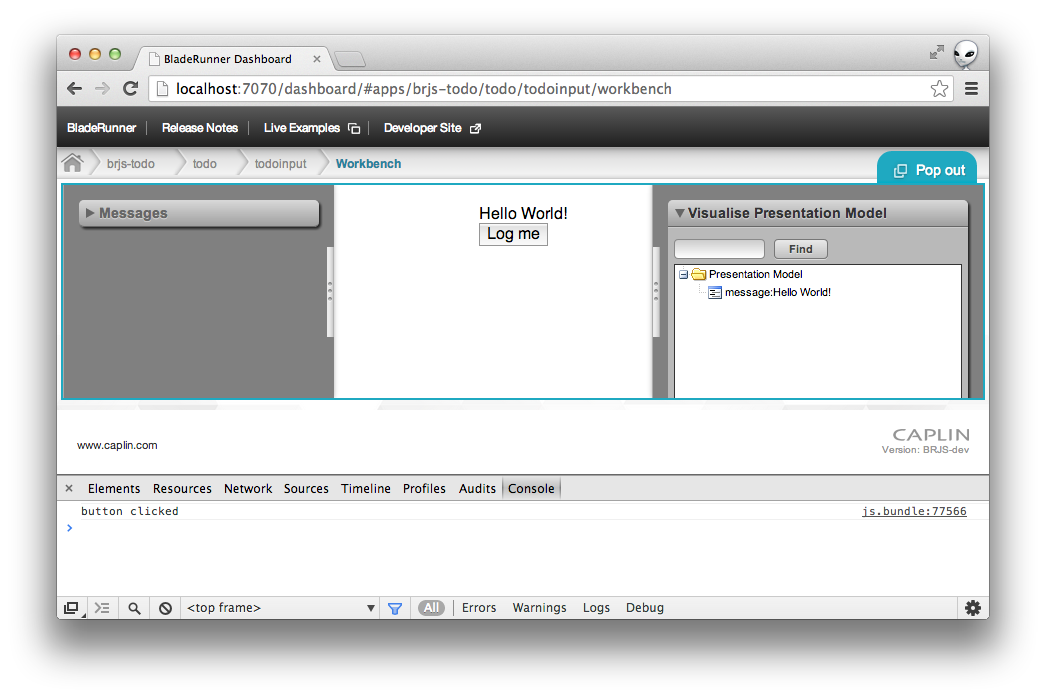
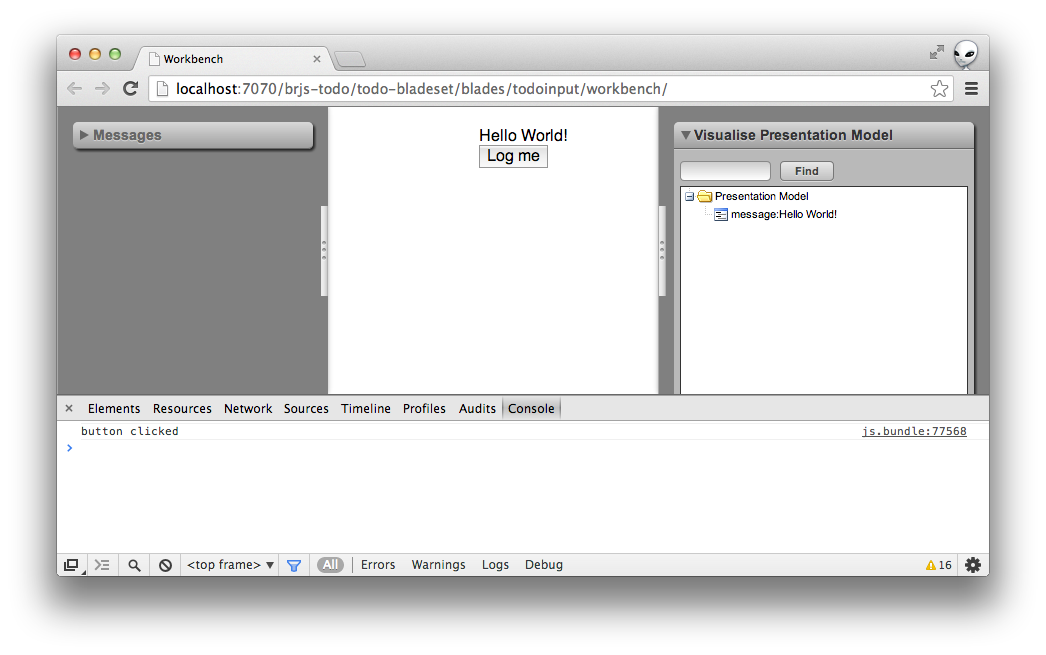
ongoing wip - more content

Changed region(s): [[0.0306, 0.0305, 0.9484, 0.7634], [0.0612, 0.8244, 0.9484, 0.8855]]

diff --git a/docs/use/getting_started.md b/docs/use/getting_started.md
@@ -8,6 +8,8 @@ permalink: /docs/use/getting_started/
 
 This isn't your typical 2 minute getting started guide - it probably takes around 10 minutes. This is because BRJS is meant to help you build large-scale applications, so we need to go into a bit of detail in order to cover things like developing using Workbenches, cross-blade communication using the EventHub and services.
 
+We'll follow convention to do this sort of thing - since following conventions are good - and we'll build a **Todo List**.
+
 It'll be 10 minutes well-spent.
 
 ## Prerequisites
@@ -60,7 +62,11 @@ This creates a folder called `todo-bladeset` within the application. For now we 
 
 Now we can create our first Blade and start developing.
 
-## Develop a Blade
+## The Todo Input Blade
+
+First, let's create a Blade for capturing the Todo items.
+
+### Scaffold the Blade
 
 Create a new blade using the CLI:
 
@@ -84,6 +90,8 @@ This creates a `todoinput` directory containing the following sub-directories:
 	</ul>
 </div>
 
+### View the Code
+
 Within `todoinput/src` you'll find an `ExampleClass.js` file:
 
     var br = require( 'br' );
@@ -92,7 +100,7 @@ Within `todoinput/src` you'll find an `ExampleClass.js` file:
     var PresentationModel = require( 'br/presenter/PresentationModel' );
     
     function ExampleClass() {
-      this.message = new Property("Hello World!" );
+      this.message = new Property( "Hello World!" );
     };
     br.extend(ExampleClass, PresentationModel);
     
@@ -100,30 +108,91 @@ Within `todoinput/src` you'll find an `ExampleClass.js` file:
       console.log( 'button clicked' );
     };
 
-Above, `ExampleClass` is a View Model which is bound to a view. You'll notice that `ExampleClass` extends `PresentationModel`. This deals with binding to the view. The view definition can be found in an HTML template in `resources/html/view.html`:
+<div class="alert alert-info">
+	<p>
+		We plan to <a href="https://github.com/BladeRunnerJS/brjs/issues/6">give auto-generated files better names</a>.
+	</p>
+</div>
+
+Above, `ExampleClass` is a View Model which is bound to a view. You'll notice that `ExampleClass` extends something called `PresentationModel`. This deals with binding data to the view. The view definition can be found in an HTML template in `resources/html/view.html`:
 
     <div id="brjstodo.todo.todoinput.view-template">
       <div class="hello-world-message" data-bind="text:message"></div>
       <button class="button" data-bind="click:buttonClicked">Log me</button>
     </div>
 
-Now that you've seen the View Model class and the view, let's launch a Workbench and see the Blade running.
+### Run the Blade in a Workbench
+
+Now that you've seen the View Model class and the view template, let's launch a Workbench and see the Blade running.
 
 Using the CLI run:
 
     unzip_location/sdk/brjs start
 
-This will start the development web server running on localhost port 7070. You can navigate to the workbench via http://localhost:7070 or go directly to it via http://localhost:7070/dashboard/#apps/brjs-todo/todo/todoinput/workbench.
+This will start the development web server running on localhost port 7070. You can navigate to the workbench via http://localhost:7070 or go directly to it via http://localhost:7070/brjs-todo/todo-bladeset/blades/todoinput/workbench/.
 
 ![](/docs/use/img/hello-world-workbench.png)
 
-**TODO: this should show the debug console logging rather than the "messages" log**
+You'll notice that there's a **Visualise Presentation Model** Workbench Tool that shows a tree visualisation of the View Model. In there you'll see a simple `message:Hello World!` name and value. 
 
-* Edit the Blade code and see the change in the workbench
-* Test the Blade
+### Add Two-Way Data Binding
 
-## Create a second Blade
+Next, let's edit the Blade to display in `input` element with a two-way binding between the View and View Model.
 
+To do this we first need to update `ExampleClass.js` to handle the fact the view contains an input element. We do this by changing the `message` instance variable to be a `Field` object. When the button is clicked let's take the value of the message and log it.
+
+    var br = require( 'br' );
+    
+    var Field = require( 'br/presenter/node/Field');
+    var PresentationModel = require( 'br/presenter/PresentationModel' );
+    
+    function ExampleClass() {
+      this.message = new Field( "Hello World!" );
+    };
+    br.extend(ExampleClass, PresentationModel);
+    
+    ExampleClass.prototype.buttonClicked = function() {
+      console.log( this.message.value.getValue() );
+    };
+
+And we update `view.html` to contain an `input` element where the element's `value` property is bound to the message's value. And since we want instant two-way binding we also need to add `valueUpdate:'afterkeydown'` to the `data-bind` attribute. Finally, update the `Log me` text to say `Add`:
+
+    <div id="brjstodo.todo.todoinput.view-template">
+      <div><input type="text" class="hello-world-message" data-bind="value:message.value, valueUpdate:'afterkeydown'" /></div>
+      <button class="button" data-bind="click:buttonClicked">Add</button>
+    </div>
+
+Now if you refresh your Workbench and change the value in the input element you'll instantly see the value updated in the Workbench Tool under *Presentation Model -> message -> value*. Clicking the button will now log the message that's been entered into the input.
+
+![](/docs/use/img/hello-bladerunnerjs-workbench.png)
+
+## Testing a Blade
+
+**TODO**
+
+## Create a Todo Items Blade
+
+Create a second blade to show the Todo list items using the CLI:
+
+    unzip_location/sdk/brjs create-blade brjs-todo todo todoitems
+
+This will create all the same assets that were created for the first blade, but in a `todoitems` directory.
+
+Open up the newly generated `ExampleClass.js` and edit it to have an instance variable called `items`. `items` should be a `NodeList` since it will contain a list of Todo list items, each of which should be a `DisplayItem`. Also, we don't need the `buttonClicked` handler so remove that:
+
+    var br = require( 'br' );
+    
+    var NodeList = require( 'br/presenter/node/NodeList');
+    var DisplayField = require( 'br/presenter/node/DisplayField' );
+    
+    function ExampleClass() {
+      this.items = new NodeList( [ new DisplayField( 'foo' ), new DisplayField( 'bar' ) ] );	
+    };
+    
+    br.extend( ExampleClass, PresentationModel );
+
+* Update View HTML template
+* View this in the Workbench
 * Demonstrate communction between the blades via the EventHub
 * Demonstrate interacting with a Blade via EventHub in a Workbench
 
